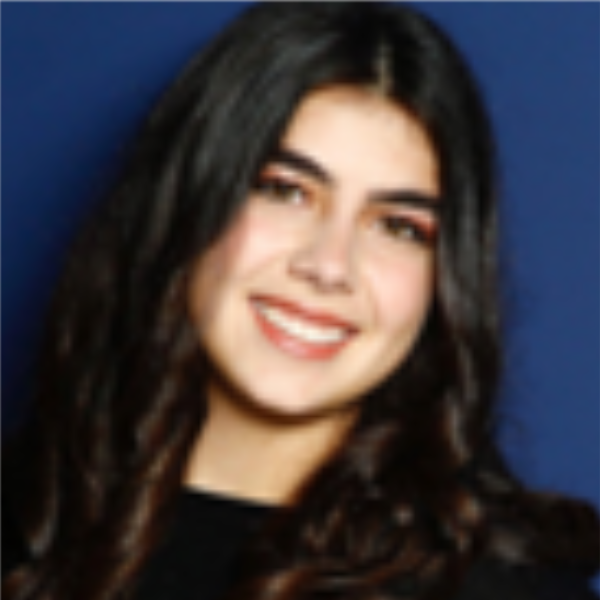
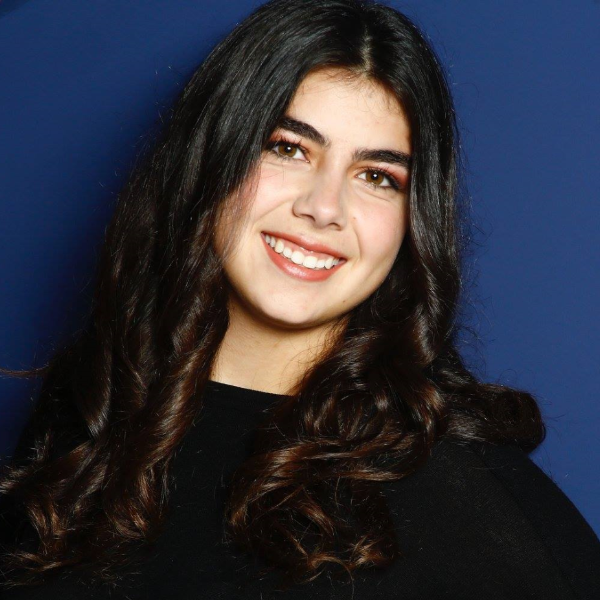
change photos and update design

diff --git a/lib/ui/home/about_us_section.dart b/lib/ui/home/about_us_section.dart
@@ -1,5 +1,3 @@
-import 'dart:math';
-
 import 'package:flutter/material.dart';
 
 import 'package:comvalglo/providers/media_query_provider.dart';
@@ -19,36 +17,27 @@ class AboutUsSection extends StatelessWidget {
     return Column(
       children: <Widget>[
         SectionTitle('Qui sommes nous ?'),
-//        GridView.count(
-//          crossAxisCount: 2,
-//          shrinkWrap: true,
-//          children: persons
-//              .map((Person person) => PersonItem(
-//                    name: person.name,
-//                    age: person.age,
-//                    location: person.location,
-//                    picture: 'images/${person.picture}',
-//                    presentation: person.presentation,
-//                  ))
-//              .toList(),
-//        ),
-
-        Wrap(
-          alignment: WrapAlignment.center,
-          children: _persons
-              .map((Person person) => ConstrainedBox(
-                    constraints: BoxConstraints(
-                      minWidth: MQ.xlMaxWidth / 2,
-                    ),
-                    child: PersonItem(
-                      name: person.name,
-                      age: person.age,
-                      location: person.location,
-                      picture: 'images/${person.picture}',
-                      presentation: person.presentation,
-                    ),
-                  ))
-              .toList(),
+        ConstrainedBox(
+          constraints: BoxConstraints(
+            maxWidth: MQ.xlMaxWidth,
+          ),
+          child: Wrap(
+            alignment: WrapAlignment.center,
+            children: _persons
+                .map((Person person) => ConstrainedBox(
+                      constraints: BoxConstraints.tightFor(
+                        width: MQ.xlMaxWidth / 3,
+                      ),
+                      child: PersonItem(
+                        name: person.name,
+                        age: person.age,
+                        location: person.location,
+                        picture: 'images/${person.picture}',
+                        presentation: person.presentation,
+                      ),
+                    ))
+                .toList(),
+          ),
         )
       ],
     );
@@ -78,14 +67,10 @@ class PersonItem extends StatelessWidget {
       child: Column(
         crossAxisAlignment: CrossAxisAlignment.center,
         children: <Widget>[
-          ConstrainedBox(
-            constraints: BoxConstraints(
-              minHeight: 220.0,
-              minWidth: 220.0,
-            ),
-            child: CircleAvatar(
-              backgroundImage: AssetImage(picture),
-            ),
+          Container(
+            height: 200.0,
+            width: 200.0,
+            child: HexagonAvatar(picture: picture),
           ),
           Padding(
             padding: const EdgeInsets.only(
@@ -123,4 +108,41 @@ class PersonItem extends StatelessWidget {
       ),
     );
   }
+}
+
+class HexagonAvatar extends StatelessWidget {
+  const HexagonAvatar({
+    Key key,
+    @required this.picture,
+  }) : super(key: key);
+
+  final String picture;
+
+  @override
+  Widget build(BuildContext context) {
+    return ClipPath(
+      child: Image.asset(picture),
+      clipper: HexagonAvatarClippper(),
+    );
+  }
+}
+
+class HexagonAvatarClippper extends CustomClipper<Path> {
+  @override
+  Path getClip(Size size) {
+    final path = Path();
+    path.lineTo(0, size.height * 0.5);
+    path.lineTo(size.width * 0.25, 0);
+    path.lineTo(size.width * 0.75, 0);
+    path.lineTo(size.width, size.height * 0.5);
+    path.lineTo(size.width * 0.75, size.height);
+    path.lineTo(size.width * 0.25, size.height);
+    path.lineTo(0, size.height * 0.5);
+
+    path.close();
+    return path;
+  }
+
+  @override
+  bool shouldReclip(CustomClipper<Path> oldClipper) => false;
 }

diff --git a/lib/ui/home/home_screen.dart b/lib/ui/home/home_screen.dart
@@ -13,25 +13,21 @@ class HomeScreen extends StatelessWidget {
       appBar: AppBar(
         title: Text('ComValGlo'),
       ),
-      body: SingleChildScrollView(
-        child: Column(
-          mainAxisAlignment: MainAxisAlignment.start,
-          crossAxisAlignment: CrossAxisAlignment.center,
-          children: <Widget>[
-            HeroSection(),
-            ConstrainedBox(
-              constraints: BoxConstraints(
-                maxWidth: MQ.xlMaxWidth,
-              ),
-              child: Column(
-                children: <Widget>[
-                  OurStorySection(),
-                  AboutUsSection(),
-                ],
-              ),
+      body: ListView(
+        children: <Widget>[
+          HeroSection(),
+          ConstrainedBox(
+            constraints: BoxConstraints(
+              maxWidth: MQ.xlMaxWidth,
             ),
-          ],
-        ),
+            child: Column(
+              children: <Widget>[
+                OurStorySection(),
+                AboutUsSection(),
+              ],
+            ),
+          ),
+        ],
       ),
     );
   }

diff --git a/lib/ui/text.dart b/lib/ui/text.dart
@@ -12,12 +12,27 @@ class SectionTitle extends StatelessWidget {
         top: 50.0,
         bottom: 20.0,
       ),
-      child: Text(
-        text,
-        style: TextStyle(
-          fontSize: 50.0,
+      child: DecoratedBox(
+        decoration: BoxDecoration(
+            border: Border(
+                bottom: BorderSide(
+          color: Colors.grey,
+          width: 0.3,
+        ))),
+        child: Padding(
+          padding: const EdgeInsets.only(
+            left: 100.0,
+            right: 100.0,
+            bottom: 15.0,
+          ),
+          child: Text(
+            text,
+            style: TextStyle(
+              fontSize: 50.0,
+            ),
+            textAlign: TextAlign.center,
+          ),
         ),
-        textAlign: TextAlign.center,
       ),
     );
   }

diff --git a/lib/data/persons_repository.dart b/lib/data/persons_repository.dart
@@ -45,7 +45,7 @@ class PersonsRepository {
       location: 'Larnage (26)',
       picture: 'sarah.png',
       presentation:
-          'Je suis quelqu’un de très organisée et dynamique. Je suis toujours là pour aider les autres. J’aime pratiquer la boxe, car cela me permet de toujours me dépasser.',
+          'Je suis quelqu’un de très organisée et dynamique. Généreuse, je suis toujours là pour aider les autres. Je suis passionnée de cuisine, notamment de pâtisserie. J’aime pratiquer la boxe, car cela me permet de toujours me dépasser.',
     ),
   ];
 }
